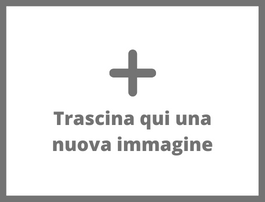
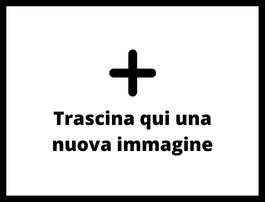
Modifica del design

diff --git a/src/main/resources/com/univr/gestoreimmagini/style.css b/src/main/resources/com/univr/gestoreimmagini/style.css
@@ -1,7 +1,31 @@
+.root{
+    -fx-background-color: orange;
+}
+
 Button {
+    -fx-background-color: white;
+    -fx-border-color: black;
+    -fx-background-insets: 0;
+    -fx-cursor: POINTER;
+}
+
+Button:hover {
     -fx-background-color: red;
 }
 
+ScrollPane, ListView{
+    -fx-border-color: black;
+    -fx-border-width: 2.5;
+}
+
+TextField {
+    -fx-border-color: black;
+}
+
+
+
 #imageDnD {
     -fx-background-image: url("DnD.png");
+    -fx-background-repeat: no-repeat;
+    -fx-background-position: center, center;
 }

diff --git a/src/main/java/com/univr/gestoreimmagini/TagListCell.java b/src/main/java/com/univr/gestoreimmagini/TagListCell.java
@@ -31,6 +31,7 @@ public class TagListCell extends ListCell<Tag> {
         if (item != null && !empty) { // <== test for null item and empty parameter
             nome.setText(item.toString());
             button.setId(item.toString() + "Button"); //setto un id al bottone così lo posso identificare
+            button.getStyleClass().add("tagButton");
             setGraphic(content);
         } else {
             setGraphic(null);
